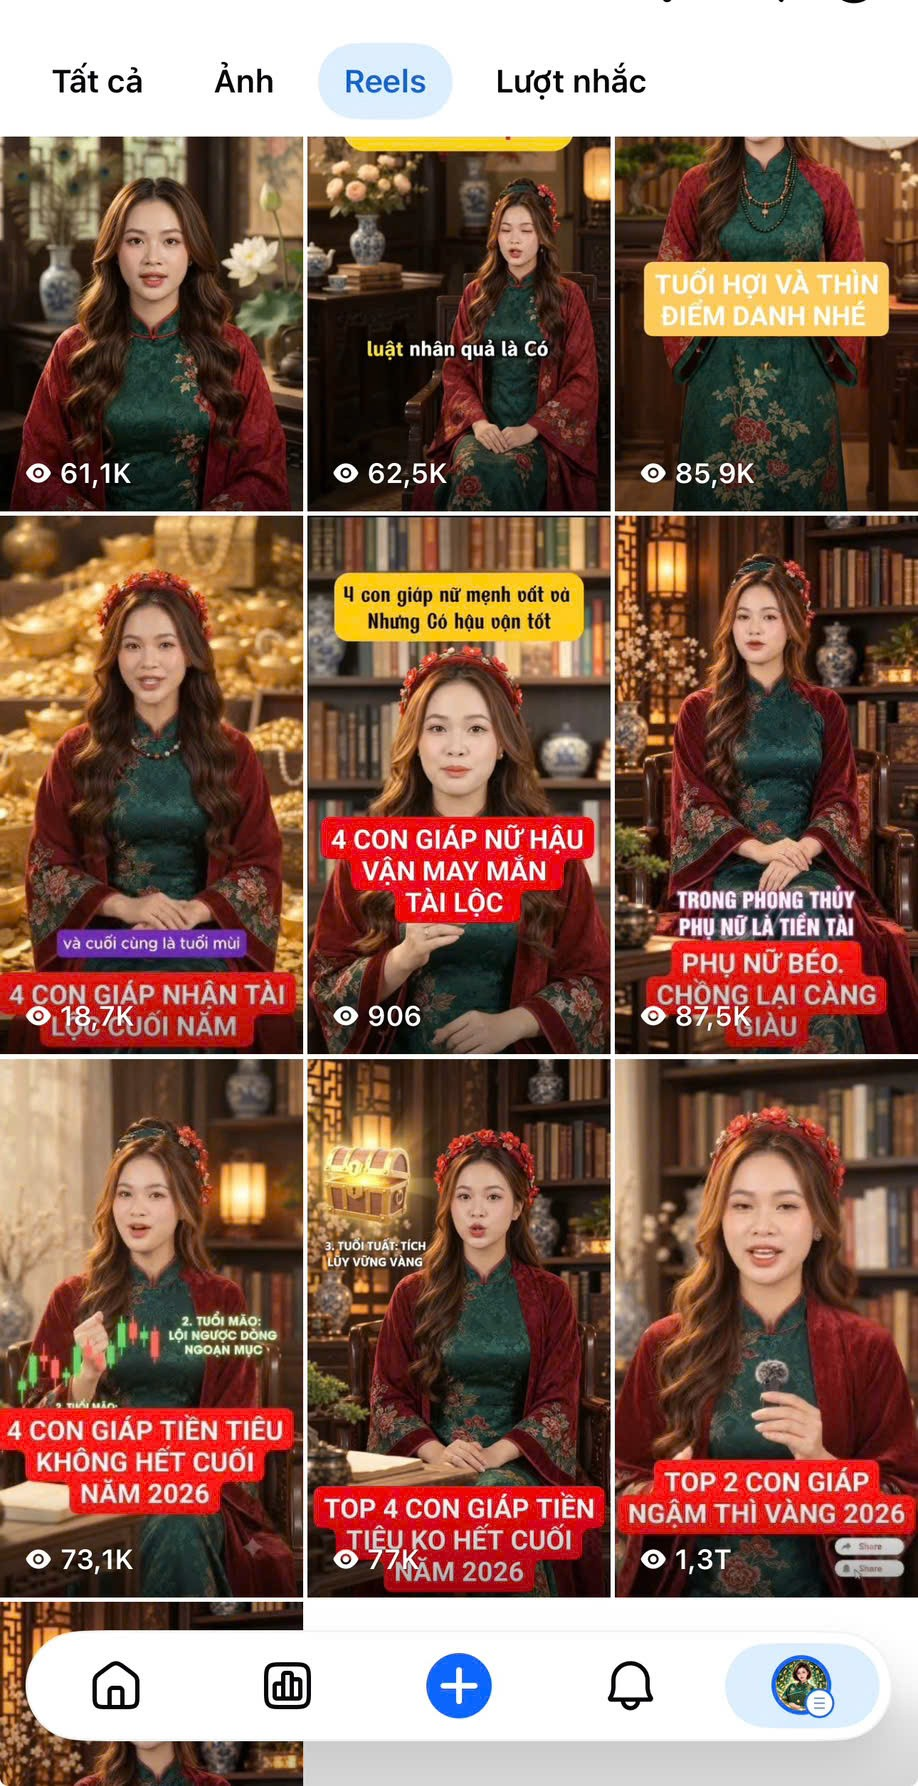
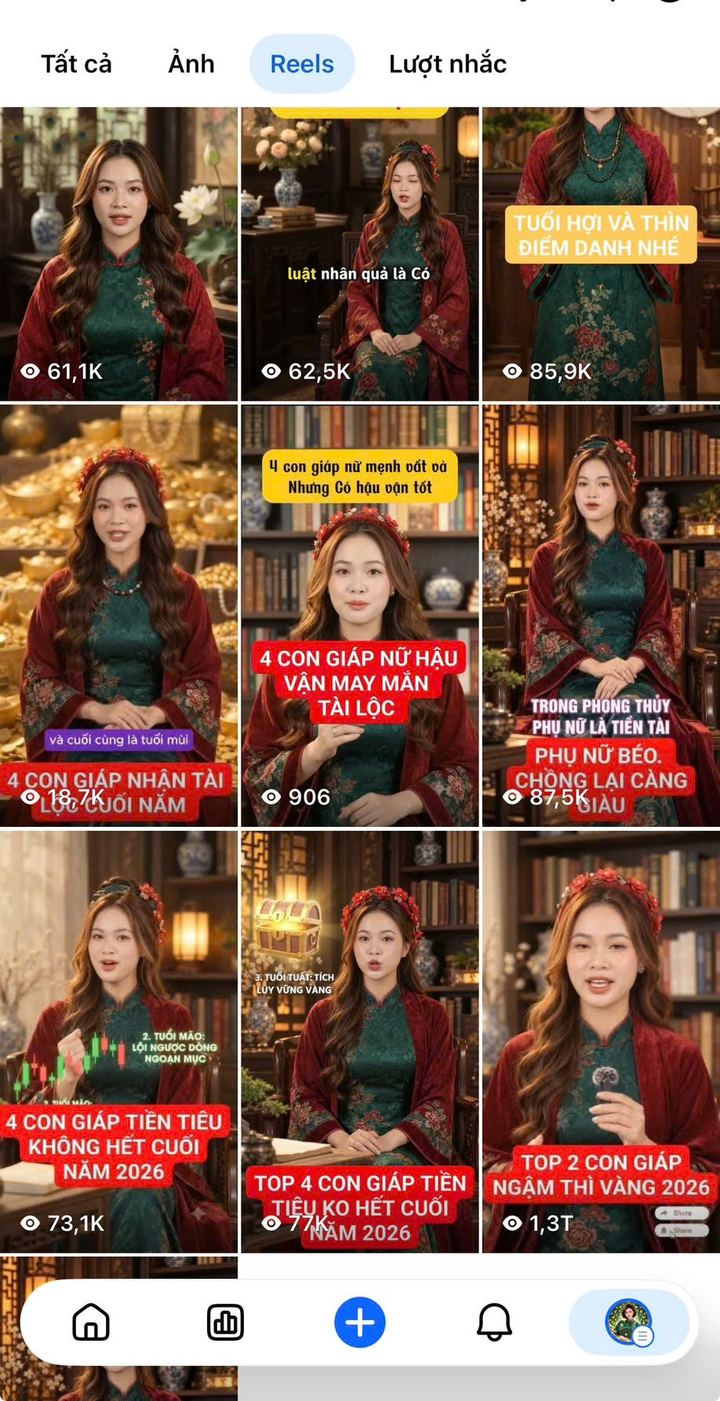
Landing: program policy page + footer links, compress channel images; skip Jekyll

diff --git a/dong-hanh-30-ngay/chinh-sach.html b/dong-hanh-30-ngay/chinh-sach.html
@@ -1,0 +1,84 @@
+<!doctype html>
+<html lang="vi">
+<head>
+<meta charset="utf-8">
+<meta name="viewport" content="width=device-width, initial-scale=1">
+<title>Chính sách – Đồng Hành 30 Ngày</title>
+<meta name="description" content="Chính sách hoàn tiền, bảo mật thông tin và liên hệ của Chương trình Đồng Hành 30 Ngày Xây Kênh & Video Triệu View – Phạm Dinh AI.">
+<link rel="preconnect" href="https://fonts.googleapis.com">
+<link rel="preconnect" href="https://fonts.gstatic.com" crossorigin>
+<link href="https://fonts.googleapis.com/css2?family=Be+Vietnam+Pro:wght@400;600;800&display=swap" rel="stylesheet">
+<style>
+  :root { --nen: #070B16; --the: #0B1224; --vien: #1E2A4A; --chu: #E8ECF6; --phu: #94a3b8; --vang: #F5B83D; }
+  * { box-sizing: border-box; }
+  body { margin: 0; background: var(--nen); color: var(--chu); font-family: 'Be Vietnam Pro', system-ui, sans-serif; line-height: 1.7; }
+  main { max-width: 760px; margin: 0 auto; padding: 32px 16px 64px; }
+  a { color: var(--vang); }
+  .ve { display: inline-block; margin-bottom: 24px; font-size: 14px; text-decoration: none; }
+  h1 { font-size: 28px; line-height: 1.3; margin: 0 0 8px; }
+  .phu { color: var(--phu); font-size: 14px; margin: 0 0 24px; }
+  section { background: var(--the); border: 1px solid var(--vien); border-radius: 20px; padding: 20px 22px; margin-top: 16px; }
+  h2 { font-size: 19px; margin: 0 0 8px; color: var(--vang); }
+  ul { padding-left: 20px; margin: 8px 0 0; }
+  li { margin: 4px 0; }
+  p { margin: 8px 0 0; }
+</style>
+</head>
+<body>
+<main>
+  <a class="ve" href="./">← Quay lại trang chương trình</a>
+  <h1>Chính sách chương trình Đồng Hành 30 Ngày</h1>
+  <p class="phu">Chương trình Đồng Hành 30 Ngày Xây Kênh &amp; Sản Xuất Video Triệu View Tự Động – Phạm Dinh AI</p>
+
+  <section id="hoan-tien">
+    <h2>1. Hoàn tiền 100% trong 7 ngày</h2>
+    <p>Nếu trong 7 ngày kể từ khi tham gia, bạn thấy chương trình không hữu ích, bạn được hoàn lại 100% học phí, không cần giải thích lý do.</p>
+    <ul>
+      <li>Cách yêu cầu: nhắn Zalo <a href="https://zalo.me/0915244329" target="_blank" rel="noopener">0915 244 329</a>, kèm họ tên và số điện thoại đã đăng ký.</li>
+      <li>Học phí được hoàn lại bằng chuyển khoản ngân hàng vào tài khoản bạn cung cấp.</li>
+    </ul>
+  </section>
+
+  <section id="chuong-trinh">
+    <h2>2. Nội dung và hình thức chương trình</h2>
+    <ul>
+      <li>Thời gian: 30 ngày đồng hành, gồm 5 buổi Zoom trực tiếp.</li>
+      <li>Có bài tập mỗi ngày và chữa bài cho từng học viên.</li>
+      <li>Lịch Zoom cụ thể được gửi trong nhóm học riêng khi bạn tham gia.</li>
+      <li>Mỗi đợt nhận tối đa 30 học viên.</li>
+      <li>Quà tặng: tool sản xuất video tự động và 10 skill sản xuất các dạng video, được trao trong chương trình.</li>
+    </ul>
+    <p>Kết quả lượt xem và doanh thu của mỗi người phụ thuộc vào việc thực hành, ngách và sản phẩm của chính người đó. Các con số trên trang là kết quả thật của người hướng dẫn, không phải cam kết kết quả cho từng học viên.</p>
+  </section>
+
+  <section id="thanh-toan">
+    <h2>3. Thanh toán</h2>
+    <ul>
+      <li>Học phí ưu đãi: 1.499.000đ (giá niêm yết 2.999.000đ).</li>
+      <li>Thanh toán bằng chuyển khoản qua mã QR trên trang đăng ký.</li>
+      <li>Ngân hàng MB · Số tài khoản 0915244329 · Chủ tài khoản PHAM THI DINH.</li>
+      <li>Sau khi chuyển khoản, bạn gửi ảnh xác nhận qua Zalo để được thêm vào nhóm học.</li>
+    </ul>
+  </section>
+
+  <section id="bao-mat">
+    <h2>4. Bảo mật thông tin</h2>
+    <p>Khi bạn điền form hoặc nhắn ở khung tư vấn, chúng tôi lưu các thông tin bạn cung cấp: họ tên, số điện thoại/Zalo, lĩnh vực kinh doanh, nhu cầu và nội dung tin nhắn.</p>
+    <ul>
+      <li>Thông tin chỉ dùng để liên hệ tư vấn và hỗ trợ bạn trong chương trình.</li>
+      <li>Chúng tôi không bán, không chia sẻ thông tin của bạn cho bên thứ ba.</li>
+      <li>Bạn có thể yêu cầu xem hoặc xoá thông tin của mình bất cứ lúc nào bằng cách nhắn Zalo 0915 244 329.</li>
+    </ul>
+  </section>
+
+  <section id="lien-he">
+    <h2>5. Liên hệ</h2>
+    <ul>
+      <li>Phạm Dinh AI</li>
+      <li>Zalo / Hotline: <a href="https://zalo.me/0915244329" target="_blank" rel="noopener">0915 244 329</a></li>
+      <li>Trang chương trình: <a href="./">Đồng Hành 30 Ngày</a></li>
+    </ul>
+  </section>
+</main>
+</body>
+</html>

diff --git a/dong-hanh-30-ngay/index.html b/dong-hanh-30-ngay/index.html
@@ -563,7 +563,7 @@
           <input type="hidden" name="goi" value="moi">
           <p id="loi" class="hidden text-sm text-red-400 font-semibold"></p>
           <button type="submit" class="cta-pulse w-full rounded-2xl bg-cta text-ink font-black uppercase px-5 py-4 text-sm sm:text-base leading-snug">⚡ Tôi muốn sở hữu hệ thống video triệu view tự động ngay</button>
-          <p class="text-center text-xs text-slate-400">🔒 Thông tin chỉ dùng để liên hệ hỗ trợ bạn · 🛡 Hoàn tiền 100% trong 7 ngày</p>
+          <p class="text-center text-xs text-slate-400">🔒 Thông tin chỉ dùng để liên hệ hỗ trợ bạn (<a href="chinh-sach.html#bao-mat" class="underline">bảo mật</a>) · 🛡 <a href="chinh-sach.html#hoan-tien" class="underline">Hoàn tiền 100% trong 7 ngày</a></p>
         </form>
       </div>
 
@@ -589,7 +589,8 @@
   </section>
 
   <footer class="border-t border-line py-8 pb-28 sm:pb-8 text-center text-xs text-slate-500 px-4">
-    © <span id="nam"></span> Phạm Dinh AI · Chương trình Đồng Hành 30 Ngày Xây Kênh &amp; Sản Xuất Video Triệu View Tự Động
+    <p>© <span id="nam"></span> Phạm Dinh AI · Chương trình Đồng Hành 30 Ngày Xây Kênh &amp; Sản Xuất Video Triệu View Tự Động</p>
+    <p class="mt-2"><a href="chinh-sach.html#hoan-tien" class="underline hover:text-gold">Chính sách hoàn tiền</a> · <a href="chinh-sach.html#bao-mat" class="underline hover:text-gold">Bảo mật thông tin</a> · <a href="chinh-sach.html#lien-he" class="underline hover:text-gold">Liên hệ</a> · Zalo 0915 244 329</p>
   </footer>
 </main>
 
